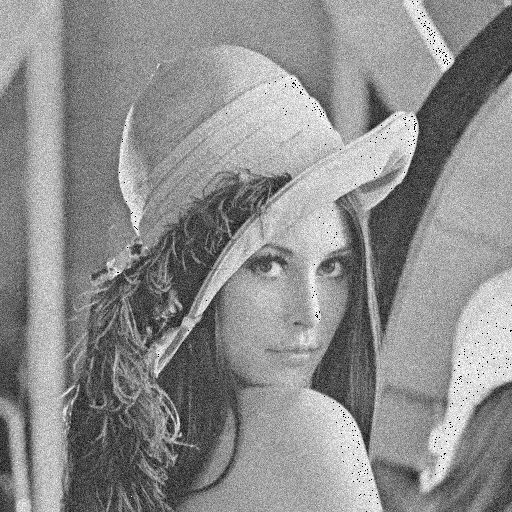
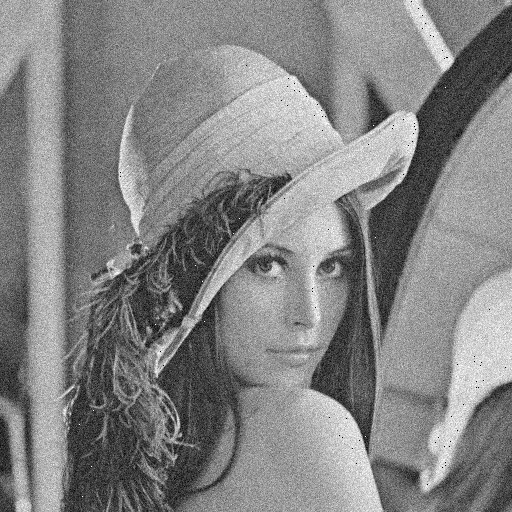
adding noise images and trimmed mean filter code

diff --git a/order_statistic_filter.py b/order_statistic_filter.py
@@ -7,7 +7,7 @@ def median_filter(image):
     width = image.shape[1]
     for row in range(height):
         for col in range(width):
-            pixel = get_neighbors(row, col, width, height, image)
+            pixel = get_neighbors(row, col, image, 1)
             pixel.sort()
             median_image[row, col] = pixel[4]
 
@@ -20,7 +20,7 @@ def max_filter(image):
     width = image.shape[1]
     for row in range(height):
         for col in range(width):
-            pixel = get_neighbors(row, col, width, height, image)
+            pixel = get_neighbors(row, col, image, 1)
             max_image[row, col] = max(pixel)
 
     return max_image
@@ -32,27 +32,74 @@ def min_filter(image):
     width = image.shape[1]
     for row in range(height):
         for col in range(width):
-            pixel = get_neighbors(row, col, width, height, image)
+            pixel = get_neighbors(row, col, image, 1)
             median_image[row, col] = min(pixel)
 
     return median_image
 
 
+def midpoint_filter(image):
+    midpoint_image = image.copy()
+    height = image.shape[0]
+    width = image.shape[1]
+    for row in range(height):
+        for col in range(width):
+            pixel = get_neighbors(row, col, image, 1)
+            midpoint_image[row, col] = min(pixel) / 2 + max(pixel) / 2
+
+    return midpoint_image
 
 
-def get_neighbors(row, col, width, height, img):
-    left = max(0, col - 1)
-    up = max(0, row - 1)
-    right = min(width - 1, col + 1)
-    down = min(height - 1, row + 1)
-    pixel = [img[up][left], img[up][col],
-             img[up][right], img[row][right],
-             img[row][left], img[down][left],
-             img[down][col], img[down][right]]
-    return pixel
+def alpha_trimmed_mean(image):
+    alpha_trimmed_image = image.copy()
+    d = 4
+    m = n = 3
+    b = int((m * n) - d)
+    trim_factor = int(d / 2)
+
+    height = image.shape[0]
+    width = image.shape[1]
+    for row in range(height):
+        for col in range(width):
+            pixel = get_neighbors(row, col, image, 1)
+            pixel.sort()
+            pixel_size = pixel.size
+
+            if b != 0:
+                trimmed_pixel = pixel[trim_factor:pixel_size - trim_factor]
+            else:
+                trimmed_pixel = pixel
+
+            pixel_sum = 0
+            for pixel in trimmed_pixel:
+                pixel_sum += pixel
+
+            alpha_trimmed_image[row, col] = int(pixel_sum / b)
+
+    return alpha_trimmed_image
 
 
+def get_neighbors(row, col, img, distance):
+    return img[max(row - distance, 0):min(row + distance + 1, img.shape[0]),
+           max(col - distance, 0):min(col + distance + 1, img.shape[1])].flatten()
+
+
+lenna = cv2.imread("Lenna.png", 0)
 image = cv2.imread("gaussian.png", 0)
-restored_image = min_filter(image)
-cv2.imshow("asd", restored_image)
+restored_image = alpha_trimmed_mean(image)
+cv2.imshow("lenna", lenna)
+cv2.imshow("noise_image", image)
+cv2.imshow("restored_image", restored_image)
 cv2.waitKey(0)
+
+from matplotlib import pyplot as plt
+
+plt.figure("noise")
+plt.hist(image.ravel(), 256, [0, 256])
+
+plt.figure("restored")
+plt.hist(restored_image.ravel(), 256, [0, 256])
+
+plt.figure("lenna")
+plt.hist(lenna.ravel(), 256, [0, 256])
+plt.show()
